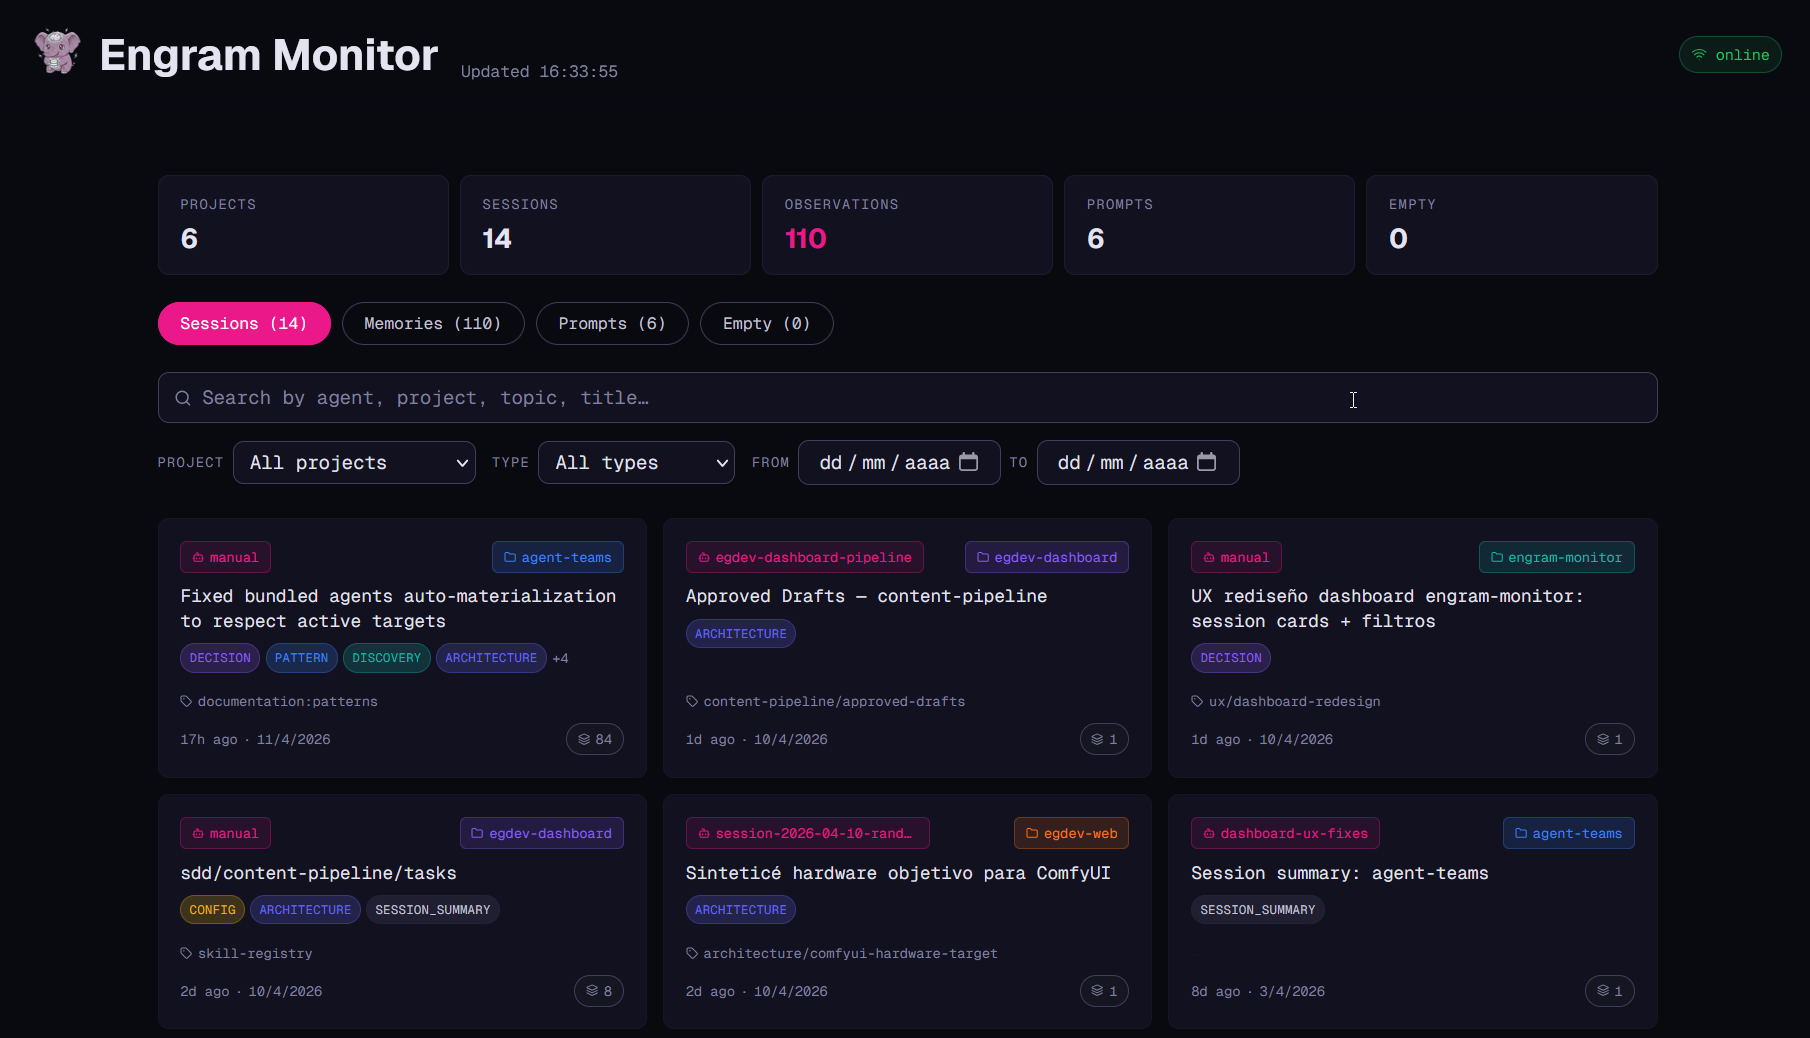
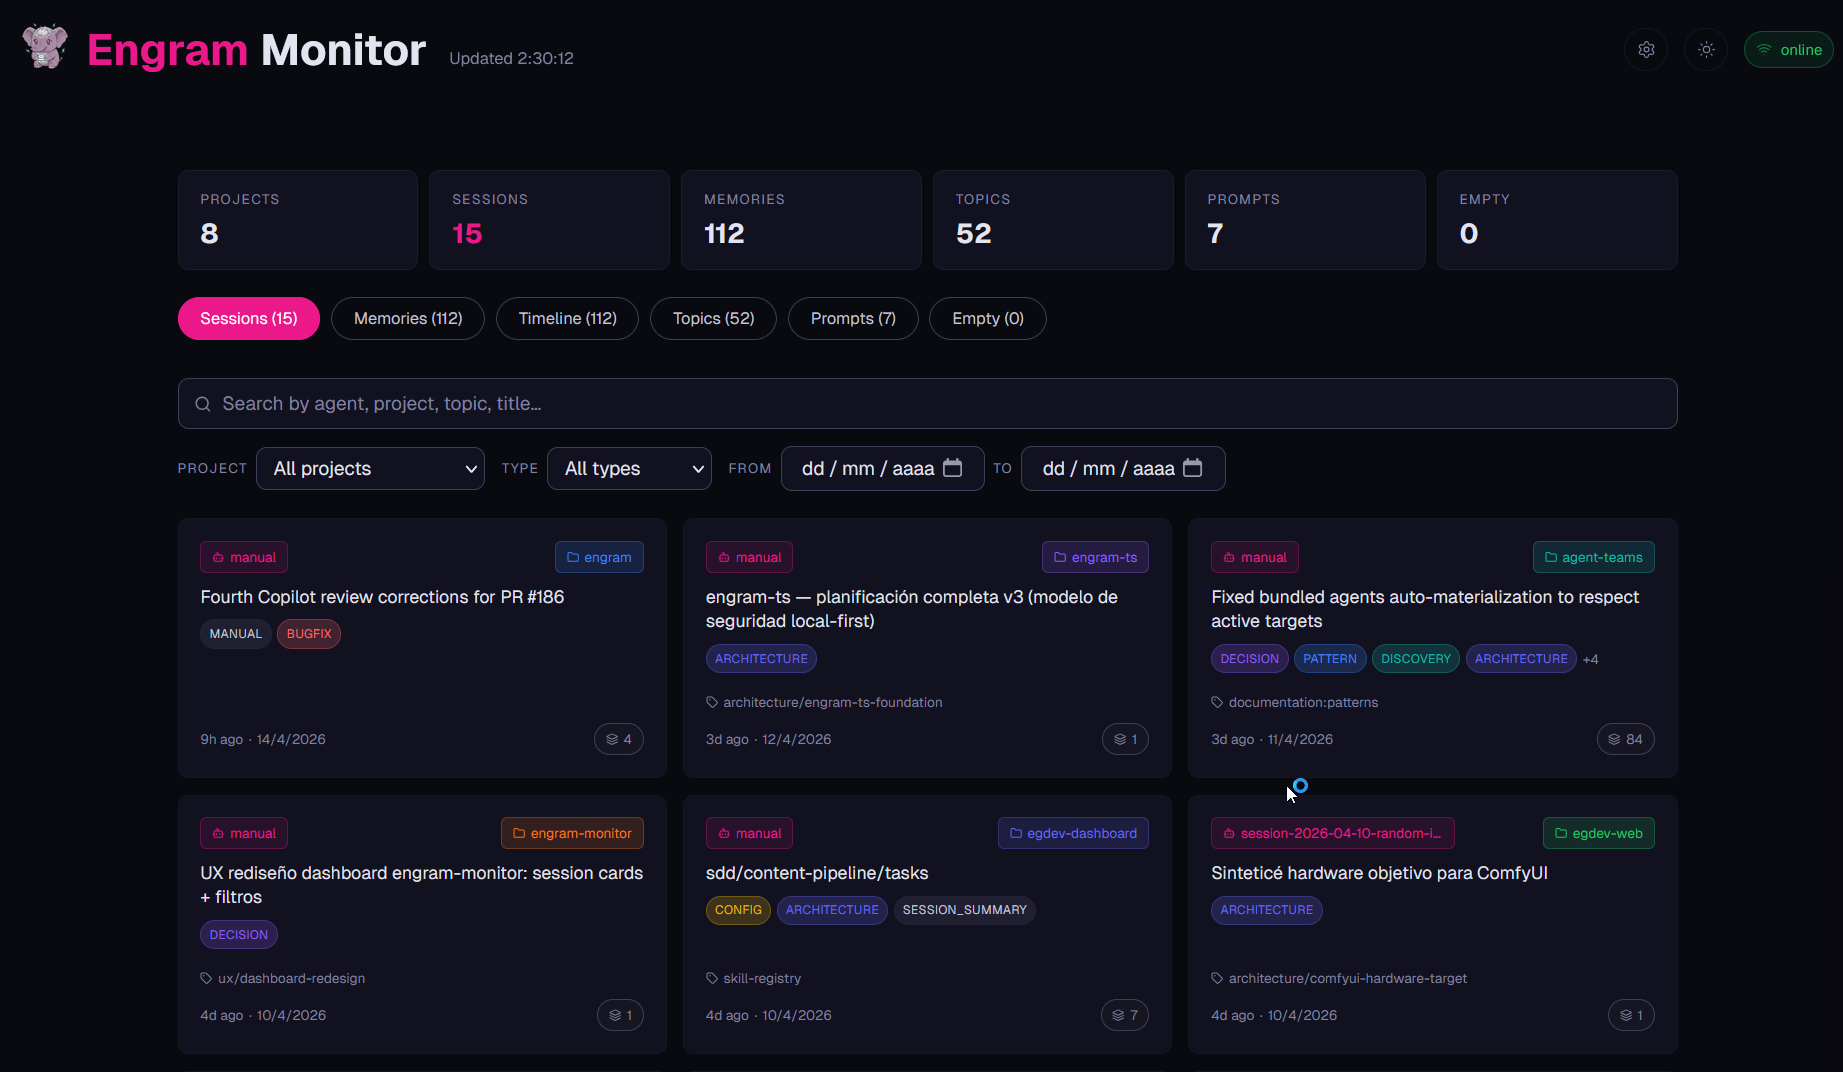
feat: visual adjustments

diff --git a/README.md b/README.md
@@ -141,24 +141,26 @@ The project follows **Atomic Design** with a container/presentational split for 
 src/
 ├── app/                    # Entry point, router, providers
 ├── components/
-│   ├── atoms/              # BackButton, EmptyState, FilterSelect, IconButton,
-│   │                       # SearchInput, StatCard, Text, TypeBadge
+│   ├── atoms/              # BackButton, Button, DateInput, EmptyState, FilterSelect,
+│   │                       # IconButton, SearchInput, StatCard, Text, TypeBadge
 │   ├── molecules/          # ClearFiltersBar, MarkdownPanel, ObservationRow, TabBar
 │   ├── organisms/          # EmptySessionsTab, Footer, Header, MemoriesTab,
-│   │                       # PromptsTab, SessionCard, SessionDetailCard,
-│   │                       # SessionsTab
+│   │                       # MergeProjectsModal, PromptsTab, SessionCard,
+│   │                       # SessionDetailCard, SessionsTab, SettingsModal,
+│   │                       # TimelineTab, TopicsTab
 │   └── templates/          # Layout
 ├── config/                 # Axios instances, React Query client
-├── hooks/                  # use-engram, use-theme, use-loading
+├── hooks/                  # use-engram, use-settings, use-theme, use-loading
 ├── models/                 # TypeScript interfaces for Engram domain types
 ├── pages/
-│   ├── engram-dashboard/   # Main dashboard (Sessions, Memories, Prompts, Empty tabs)
+│   ├── engram-dashboard/   # Main dashboard (Sessions, Memories, Prompts, Topics,
+│   │                       # Timeline, Empty Sessions tabs)
 │   └── session-detail/     # Session drill-down with observation list
 ├── services/               # All Engram API calls (engramService)
 ├── styles/                 # Global CSS: base, theme tokens, fonts, utilities
 └── utils/
-    ├── constants/          # TYPE_COLORS, PROJECT_COLORS, INPUT_CLS
-    └── helpers/            # timeAgo(), projectColor()
+    ├── constants/          # TYPE_COLORS, PROJECT_COLORS, INPUT_CLS, KNOWN_TYPES
+    └── helpers/            # timeAgo(), projectColor(), cn()
 ```
 
 **Key concepts:**
@@ -166,7 +168,8 @@ src/
 - **API proxy** — Vite proxies `/engram-api` → `http://127.0.0.1:7437` in dev. All calls use the `engramApi` Axios instance.
 - **Session derivation** — Active sessions (with observations) are derived client-side by grouping observations by `session_id`. Empty sessions are fetched directly from the `GET /sessions` endpoint.
 - **Data fetching** — Services wrap raw API calls. Hooks compose services with TanStack Query and expose clean interfaces to components.
-- **Global state** — Zustand for UI state (theme, loading overlay). TanStack Query for all server state.
+- **Global state** — Zustand for UI state (theme, settings modal, loading overlay). TanStack Query for all server state.
+- **Atomic components** — Reusable atoms (Button, DateInput) follow consistent patterns with typed props, variants, and sizes.
 
 **Path aliases** (defined in `vite.config.ts`):
 
@@ -196,15 +199,36 @@ src/
 
 <div id="features">
 
+### Core Views
+
 - **Sessions tab** — grid view of all agent sessions with agent name, project, type badges, latest title, topic key, and date. Filterable by project, type, and date range.
-- **Memories tab** — grid view of individual observations. Filterable by project, type, scope, and limit. Click any row to open a Markdown detail panel.
+- **Memories tab** — grid view of individual observations. Filterable by project, type, scope, and limit with active filter badges. Click any row to open a Markdown detail panel with inline editing.
+- **Topics tab** — grouped view of observations organized by `topic_key`. Expandable groups show observation timeline with revision counts. Filterable by project and search.
+- **Timeline tab** — chronological view of all observations grouped by day (Today, Yesterday, or formatted date). Filterable by project, type, and search with visual timeline dots colored by observation type.
 - **Prompts tab** — list of saved user prompts with inline search and per-row delete.
 - **Empty sessions tab** — dedicated list of sessions with no observations, with inline search and per-row delete to clean up stale entries.
+
+### Navigation & UI
+
 - **Session detail** — drill into a session to see all its observations in order, with inline search and type filtering.
+- **Settings modal** — centralized configuration panel accessible from header with Export JSON, Import JSON, and Merge Projects actions.
+- **Responsive tabs** — horizontal scrollable tab bar on mobile with scroll-snap and hidden scrollbar.
 - **Live health indicator** — header shows online/offline status with auto-polling every 2 seconds.
 - **Stats bar** — projects, sessions, observations, prompts, and empty session counts at a glance.
+
+### Data Management
+
+- **Markdown panel** — full observation detail viewer with inline editing support for title, content, type, scope, and topic_key fields.
+- **Merge projects** — dedicated modal to merge observations from one project into another with confirmation flow.
 - **Delete support** — delete individual prompts or empty sessions directly from the dashboard.
-- **Dark theme** — dark-only UI with Geist font and a magenta accent.
+- **Export/Import** — export all data as JSON or import from a JSON file to restore/migrate observations.
+
+### Design System
+
+- **Unified typography** — Geist (sans-serif) used consistently throughout the entire app.
+- **Light & dark themes** — full theme toggle support with persistent storage and automatic system preference detection.
+- **Atomic design** — reusable components (Button, DateInput, FilterSelect) with consistent API and variants.
+- **Accessible** — proper ARIA labels, keyboard navigation (Esc to close modals/panels), and semantic HTML.
 
 </div>
 
